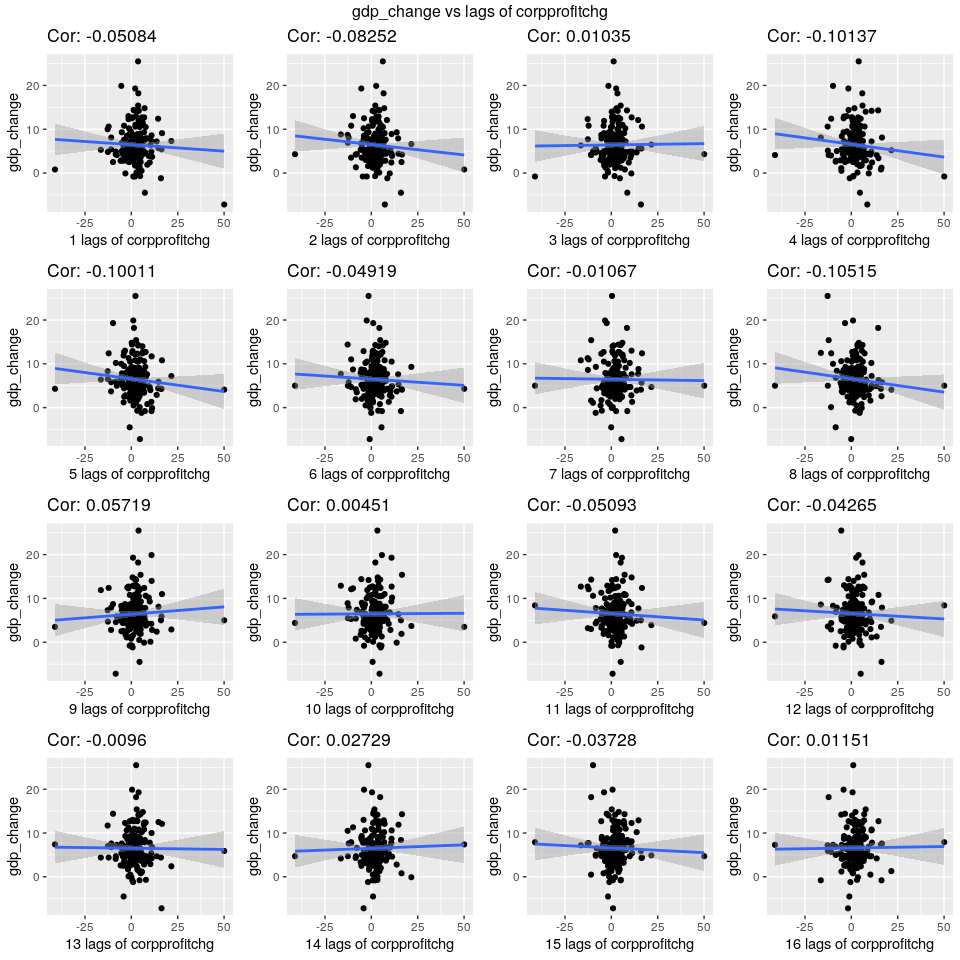
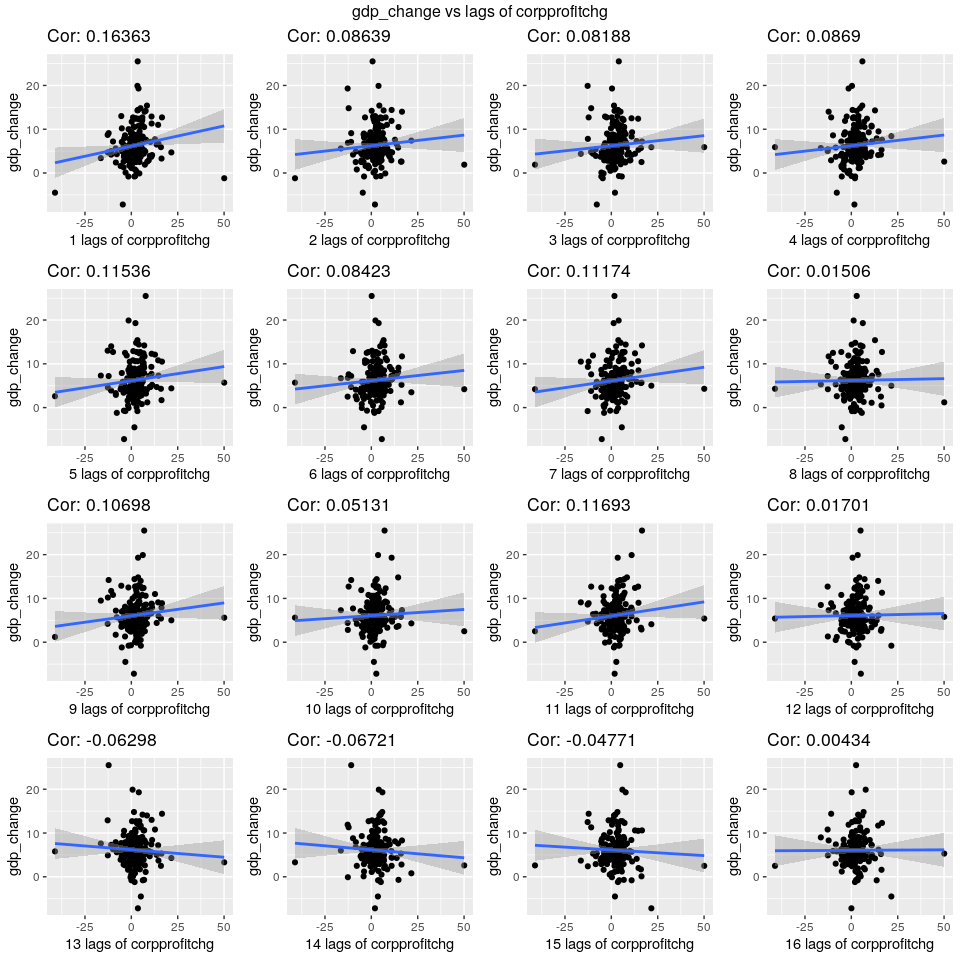
Fix issue in lag plots New knit

diff --git a/analysis/mutlivariate_EDA.md b/analysis/mutlivariate_EDA.md
@@ -328,10 +328,6 @@ correlations <- rbind(correlations, plot.cross.lags(data, 'gdp_change', 'popchg'
 
 ## Change in Corporate Profits
 
-There does not appear to be evidence of correlation between change in
-gdp and change in corporate
-profits.
-
 ``` r
 correlations <- rbind(correlations, plot.cross.lags(data, 'gdp_change', 'corpprofitchg', 16))
 ```
@@ -339,10 +335,6 @@ correlations <- rbind(correlations, plot.cross.lags(data, 'gdp_change', 'corppro
 ![](mutlivariate_EDA_files/figure-gfm/unnamed-chunk-14-1.png)<!-- -->
 
 ## Change in Crude Prices
-
-There does not appear to be evidence of correlation between change in
-gdp and change in crude
-prices.
 
 ``` r
 correlations <- rbind(correlations, plot.cross.lags(data, 'gdp_change', 'crude_wtichg', 16))
@@ -352,10 +344,6 @@ correlations <- rbind(correlations, plot.cross.lags(data, 'gdp_change', 'crude_w
 
 ## Change in PPI
 
-There does not appear to be evidence of correlation between change in
-gdp and change in
-ppi.
-
 ``` r
 correlations <- rbind(correlations, plot.cross.lags(data, 'gdp_change', 'ppichg', 16))
 ```
@@ -363,10 +351,6 @@ correlations <- rbind(correlations, plot.cross.lags(data, 'gdp_change', 'ppichg'
 ![](mutlivariate_EDA_files/figure-gfm/unnamed-chunk-16-1.png)<!-- -->
 
 ## Change in Gold Prices
-
-There appears to be weak evidence of correlation between change in gdp
-and lags of change in gold
-prices
 
 ``` r
 correlations <- rbind(correlations, plot.cross.lags(data, 'gdp_change', 'goldchg', 16))
@@ -376,10 +360,6 @@ correlations <- rbind(correlations, plot.cross.lags(data, 'gdp_change', 'goldchg
 
 ## japanchg
 
-There does not appear to be evidence of correlation between change in
-gdp and
-japanchg.
-
 ``` r
 correlations <- rbind(correlations, plot.cross.lags(data, 'gdp_change', 'japanchg', 16))
 ```
@@ -387,10 +367,6 @@ correlations <- rbind(correlations, plot.cross.lags(data, 'gdp_change', 'japanch
 ![](mutlivariate_EDA_files/figure-gfm/unnamed-chunk-18-1.png)<!-- -->
 
 ## ukchg
-
-There does not appear to be evidence of correlation between change in
-gdp and
-ukchg
 
 ``` r
 correlations <- rbind(correlations, plot.cross.lags(data, 'gdp_change', 'ukchg', 16))
@@ -413,19 +389,19 @@ correlations %>%
     ## # A tibble: 13 x 3
     ##    variable        mean_corr max_corr
     ##    <chr>               <dbl>    <dbl>
-    ##  1 fedintrate         0.550    0.601 
-    ##  2 treas10yr          0.533    0.601 
-    ##  3 cpichg             0.368    0.484 
-    ##  4 popchg             0.220    0.277 
-    ##  5 ppichg             0.161    0.257 
-    ##  6 nfjobschg          0.106    0.453 
-    ##  7 unrate             0.0882   0.283 
-    ##  8 goldchg            0.0707   0.222 
-    ##  9 personincomechg    0.0577   0.341 
-    ## 10 crude_wtichg       0.0465   0.0974
-    ## 11 japanchg          -0.0194   0.102 
-    ## 12 ukchg             -0.0297   0.0965
-    ## 13 corpprofitchg     -0.0331   0.0572
+    ##  1 treas10yr          0.352    0.408 
+    ##  2 fedintrate         0.328    0.388 
+    ##  3 cpichg             0.297    0.382 
+    ##  4 ppichg             0.156    0.305 
+    ##  5 unrate             0.154    0.206 
+    ##  6 nfjobschg          0.143    0.473 
+    ##  7 popchg             0.131    0.190 
+    ##  8 goldchg            0.0882   0.199 
+    ##  9 personincomechg    0.0552   0.230 
+    ## 10 corpprofitchg      0.0540   0.164 
+    ## 11 crude_wtichg       0.0317   0.0819
+    ## 12 ukchg             -0.0137   0.110 
+    ## 13 japanchg          -0.0547   0.0328
 
 # Subset Data
 
